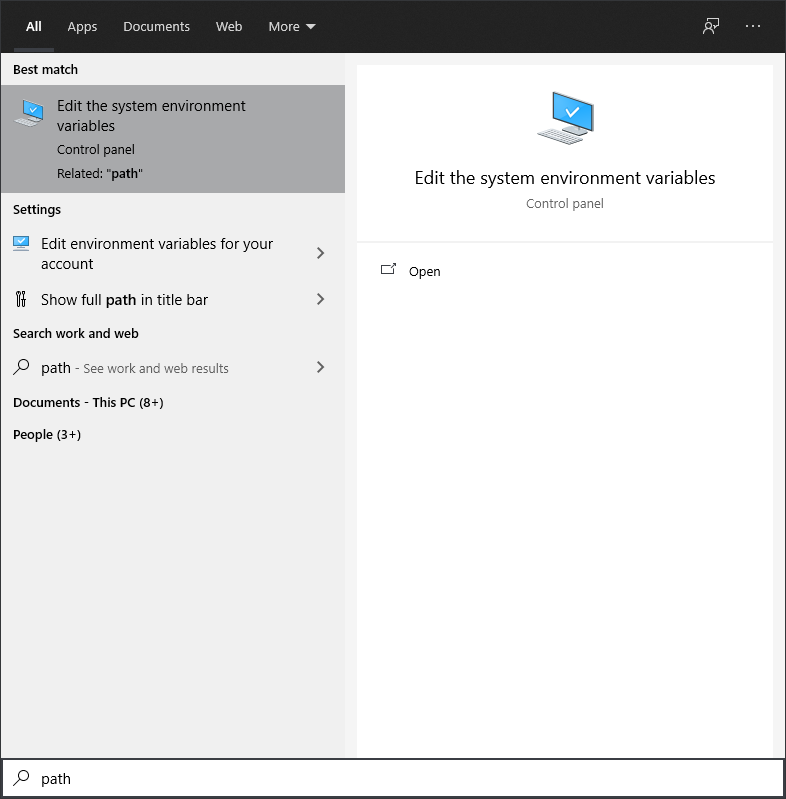
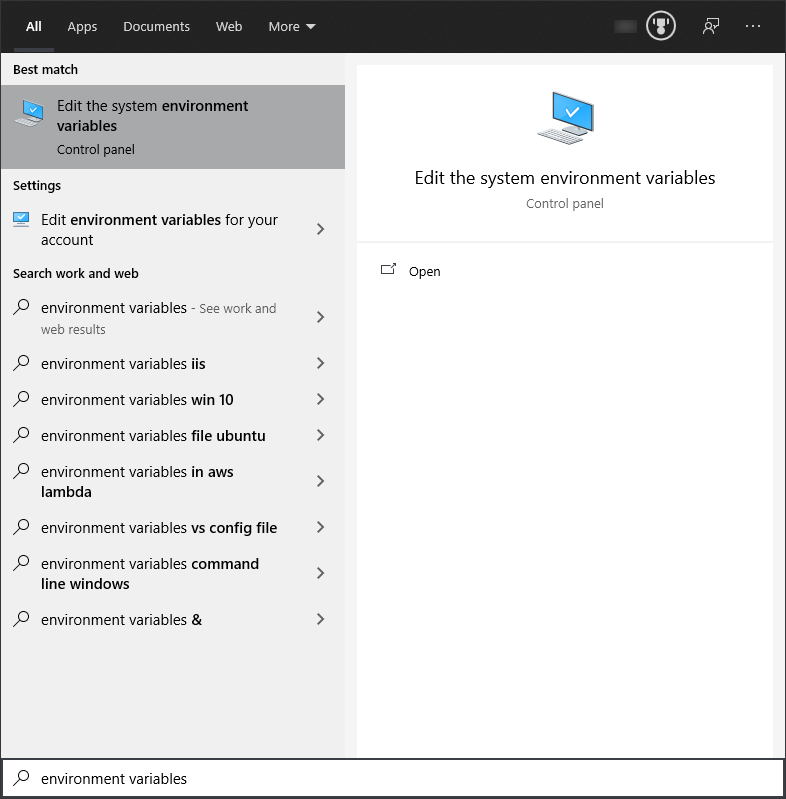
rexedia wip

diff --git a/_layouts/article.html b/_layouts/article.html
@@ -1,5 +1,7 @@
 ---
 layout: default
+after: |
+    <script src="/dependencies/kttdevelopment/js/markdown.js"></script>
 ---
 <article>
     {% include default/breadcrumb.liquid link=true %}
@@ -38,7 +40,7 @@ layout: default
         </div>
         {% endif %}
         <!-- content -->
-        <div class="markdown col-12{% if article %} col-xl-9{% endif %} order-3">
+        <div id="markdown" class="markdown col-12{% if article %} col-xl-9{% endif %} order-3">
             {% include import/anchor_headings.html html=content anchorBody='#' %}
         </div>
         <div class="col-12 d-block d-xl-none order-last">

diff --git a/dependencies/kttdevelopment/js/markdown.js b/dependencies/kttdevelopment/js/markdown.js
@@ -1,0 +1,6 @@
+$("#markdown").ready(function(){
+    console.log("readY");
+    $("#markdown").find("a").filter(function() {
+        return this.hostname != window.location.hostname;
+    }).attr('target', '_blank');
+});

diff --git a/_layouts/default.html b/_layouts/default.html
@@ -17,5 +17,6 @@ layout: compress
 
         {% include default/_after.liquid %}
         {{ page.after }}
+        {{ layout.after }}
     </body>
 </html>

diff --git a/dependencies/kttdevelopment/css/_markdown.scss b/dependencies/kttdevelopment/css/_markdown.scss
@@ -7,6 +7,7 @@
     }
 
     img{
+        max-height: 480px;
         max-width: 100%;
     }
 

diff --git a/rexedia/installation.md b/rexedia/installation.md
@@ -5,7 +5,9 @@ body: Setup instructions for Rexedia executable.
 
 # Local Installation
 
-[![releases](https://img.shields.io/github/v/release/Ktt-Development/rexedia)](https://github.com/Ktt-Development/rexedia/releases)
+The latest stable release can be found in releases → [![releases](https://img.shields.io/github/v/release/Ktt-Development/rexedia)](https://github.com/Ktt-Development/rexedia/releases)
+
+Simply run the installer or extract the zip file into the desired directory.
 
 # Running Rexedia
 
@@ -19,9 +21,40 @@ operable program or batch file.
 
 This behavior is expected, if the application is not added to the system path it can only be accessed by using the full installation path.
 
-Ex: `"C:\Program Files\rexedia\rexedia.exe"`
+Ex: Rexedia installed in the downloads folder can be accessed using:
+```
+C:\Users\Katsute> C:\Users\Katsute\Downloads\rexedia\rexedia.exe
+usage: rexedia
+ -b,--backup <arg>           Should a backup file be kept of the original
+ -c,--cover <arg>            The cover format to use
+ -d,--debug <arg>            Run logging in debug mode and create a debug
+                             file
+...
+```
+
+Note that paths with spaces in them may require quotations `"` around the path.
 
 # Adding Rexedia to the Path
+
+In order to get to the path variables you have to open the system environment variables. This can be achieved by searching for `environment variables` in the search bar or in the control panel search bar.
+
+![search 'environment variables'](setup_path_1.png)
+
+Next click on `Environment Variables`, this will open the user and system variables.
+
+![click 'Environment Variables'](setup_path_2.png)
+
+Select the `Path` variable then `Edit` to edit the variables.
+
+![select path & click 'Edit...'](setup_path_3.png)
+
+Press `New` and add the path to the rexedia installation. The path should be the folder containing the executable, not the exe file itself.
+
+Ex: `C:\Program Files\rexedia`
+
+![add new with rexedia path](setup_path_4.png)
+
+After this is completed Rexedia should be accessible from the command prompt without needing the full path.
 
 ```
 C:\Users\Katsute> rexedia

diff --git a/rexedia/arguments.md b/rexedia/arguments.md
@@ -1,9 +1,37 @@
+---
+title: Arguments
+body: |
+    Rexedia formats using regular expressions and back references based on the parameters provided in the command line.
+---
+
+# Required Arguments
+
+In order to format files Rexedia requires at least one input and a format or preset.
+
+```sh
+rexedia -i video.mp4 -m "title" "(.+)" "$1"
+```
+```sh
+rexedia -i video.mp4 -p "preset.yml"
+```
+
+Note that formats and presets can not be used at the same time. If a preset is specified then the format and output parameters will be ignored.
+
 # Arguments
 **Regular expression will test against the file name without the extension.**
 
-**At least one input required.**
+|Flag|Type|Description|
+|---|---|---|
+|`-i` `-input`|*`file`*|The file or directory path to format. Can be used multiple times.|
+|`-w` `-walk`|*`boolean`*|If true, subdirectories will also be formatted (only for directory input).|
+|`-b` `-backup`|*`boolean`*|If true, input files will be backed up.|
+|`-l` `-logging`|*`boolean`*|If true, log files will be generated.|
+|`-d` `-debug`|*`boolean`*|If true, debug logs will be generated.|
+|`-pc` `preserveCover`|*`boolean`*|If true, files with existing cover art will not get erased unless a new one is specified.|
+|`-pm` `preserveMeta`|*`boolean`*|If true, files will preserve any existing metadata in the final output.|
+|`-p` `-preset`|*`file`*|The preset file path. Overrides cover, metadata, and output flags.|
+|`-c` `-cover`|*`[regex] [string]`* 
 
-**A cover, metadata, or output; or preset must be specified. If a preset is specified then the cover, metadata, and output flags will be ignored.**
 
 - `-i` `-input` *[file]* - File or directory path to format. Can be used multiple times.
 - `-w` `-walk` *[boolean]* - If true, subdirectories will also be formatted.
